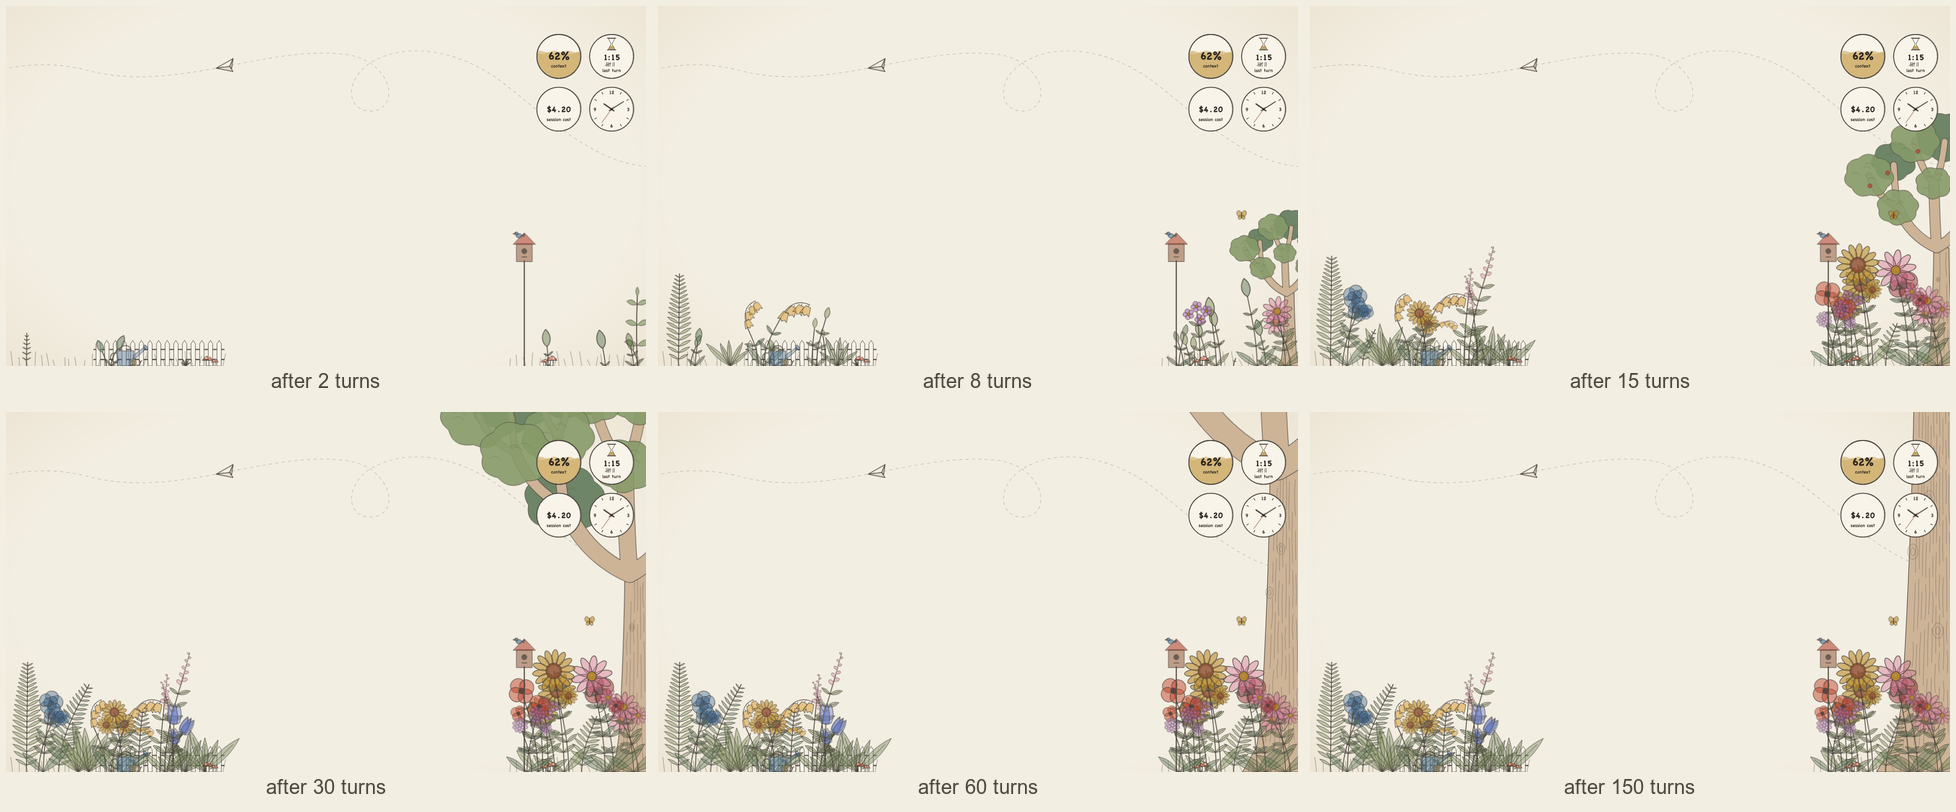
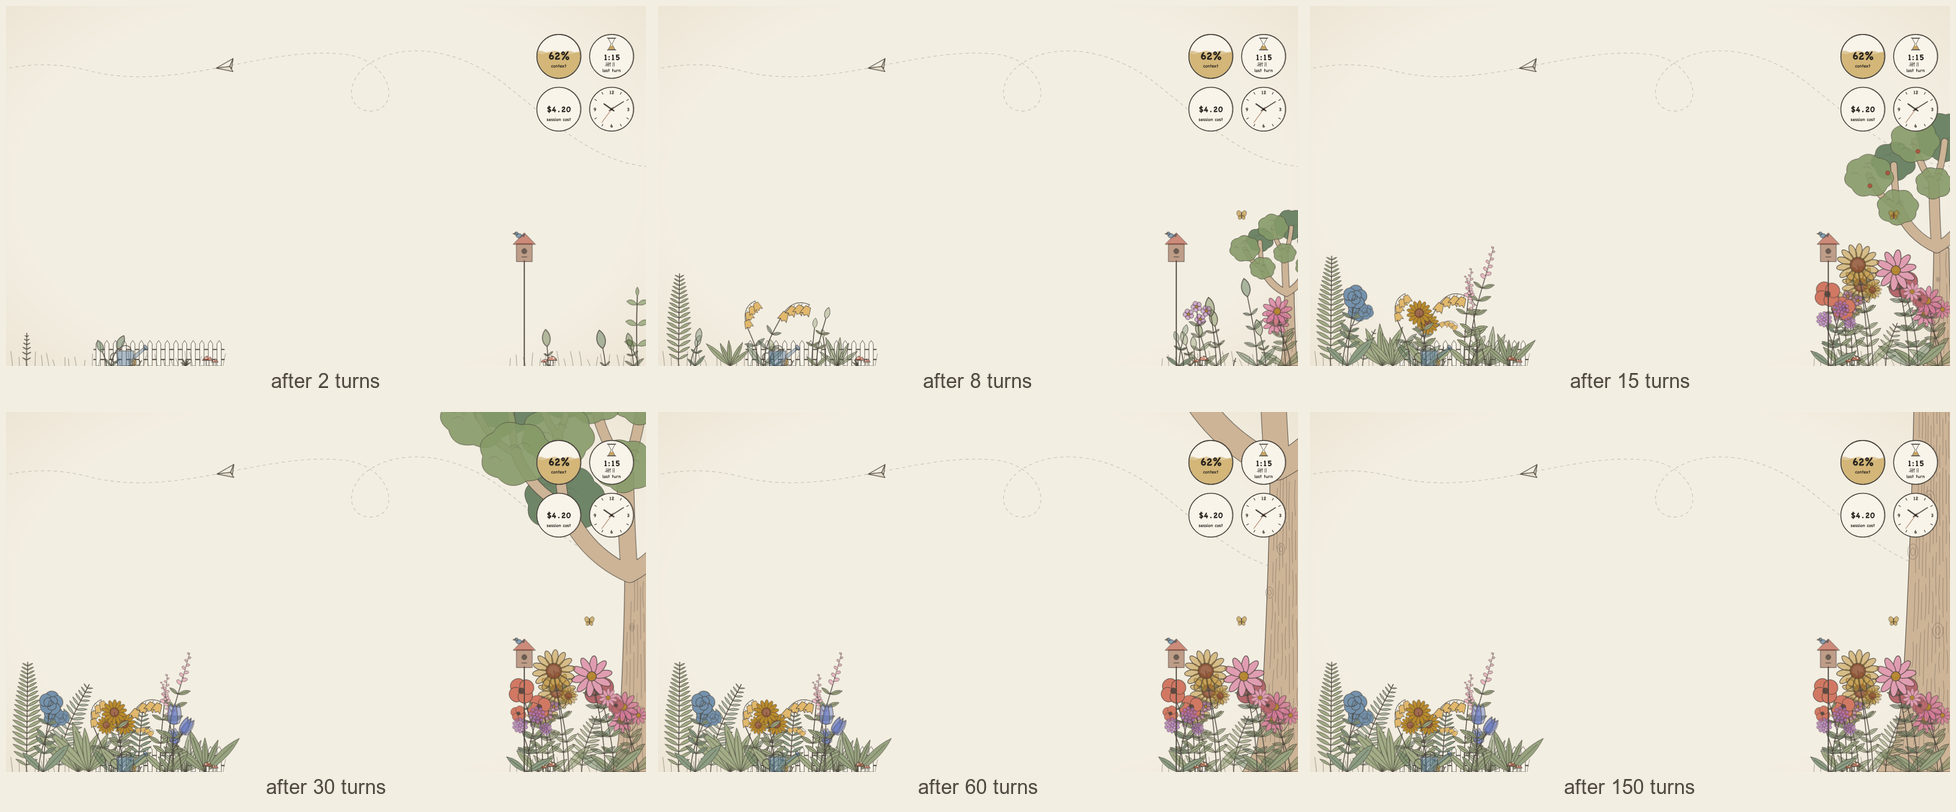
Most flowers and leaves are painted solid, a few stay see-through

diff --git a/hooks/scene/garden.ts b/hooks/scene/garden.ts
@@ -31,6 +31,12 @@ function chance(seed: number, index: number, choice: number): number {
   return hashUnit(seed * 97 + index, choice)
 }
 
+/** A colour mixed part of the way toward the paper's cream. */
+function tint(hex: string, share: number): string {
+  const mix = (at: number, paper: number) => Math.round(parseInt(hex.slice(at, at + 2), 16) * (1 - share) + paper * share)
+  return `rgb(${mix(1, 243)},${mix(3, 238)},${mix(5, 226)})`
+}
+
 function pick<T>(list: readonly T[], share: number, fallback: T): T {
   return list[Math.floor(share * list.length)] ?? fallback
 }
@@ -40,6 +46,7 @@ type Leaf = { x: number; y: number; angle: number; length: number; plump: number
 /**
  * One almond-shaped leaf growing out of (x, y) at `angle` degrees. `plump` is its width as a share of its length.
  * It carries no colour of its own: `foliage` gives a plant's leaves their look once, which keeps the picture small.
+ * Most plants' leaves are solid, like their petals, and the rest are a see-through wash.
  */
 function leaf({ x, y, angle, length, plump, hasRib }: Leaf): string {
   const half = round(length / 2)
@@ -48,38 +55,38 @@ function leaf({ x, y, angle, length, plump, hasRib }: Leaf): string {
   return `<path transform="translate(${round(x)} ${round(y)}) rotate(${round(angle)})" d="M0 0Q${half} ${-belly} ${round(length)} 0Q${half} ${belly} 0 0Z${rib}"/>`
 }
 
-function foliage(green: string, leaves: string): string {
-  return `<g fill="${green}" fill-opacity=".42" stroke="${GRAPHITE}" stroke-width="1.2" stroke-linejoin="round">${leaves}</g>`
+function foliage(plot: Plot, leaves: string): string {
+  return `<g fill="${plot.green}" fill-opacity="${plot.leafBody}" stroke="${GRAPHITE}" stroke-width="1.2" stroke-linejoin="round">${leaves}</g>`
 }
 
-function daisy(wash: string): string {
+function daisy(wash: string, body: number): string {
   let petals = ''
   for (let petal = 0; petal < 10; petal += 1) petals += `<ellipse cx="12" cy="0" rx="10" ry="4" transform="rotate(${petal * 36})"/>`
-  return `<g fill="${wash}" fill-opacity=".45" stroke="${GRAPHITE}" stroke-width=".7">${petals}<circle r="5" fill="${OCHRE}" fill-opacity=".9"/></g>`
+  return `<g fill="${wash}" fill-opacity="${body}" stroke="${GRAPHITE}" stroke-width=".7">${petals}<circle r="5" fill="${OCHRE}" fill-opacity=".9"/></g>`
 }
 
 /** A tulip: a tall cup of two outer petals with a third folded in front of them. */
-function tulip(wash: string): string {
+function tulip(wash: string, body: number): string {
   return (
     `<g fill="${wash}" stroke="${GRAPHITE}" stroke-width=".8" stroke-linejoin="round">` +
-    `<path d="M-9 2C-14 -8 -12 -22 -7 -31C-3 -25 -1 -21 0 -18C1 -21 3 -25 7 -31C12 -22 14 -8 9 2Q0 7 -9 2Z" fill-opacity=".45"/>` +
-    `<path d="M-5.5 3C-7 -9 -4 -24 0 -32C4 -24 7 -9 5.5 3Q0 6 -5.5 3Z" fill-opacity=".6"/></g>`
+    `<path d="M-9 2C-14 -8 -12 -22 -7 -31C-3 -25 -1 -21 0 -18C1 -21 3 -25 7 -31C12 -22 14 -8 9 2Q0 7 -9 2Z" fill-opacity="${body}"/>` +
+    `<path d="M-5.5 3C-7 -9 -4 -24 0 -32C4 -24 7 -9 5.5 3Q0 6 -5.5 3Z" fill-opacity="${Math.min(1, body + 0.15)}"/></g>`
   )
 }
 
 /** A rose: a ring of round outer petals, a tighter ring inside it, and a curl of petals at the heart. */
-function rose(wash: string): string {
+function rose(wash: string, body: number): string {
   let outer = ''
   for (let petal = 0; petal < 5; petal += 1) outer += `<ellipse cx="0" cy="-9.5" rx="9.5" ry="8" transform="rotate(${petal * 72})"/>`
   let inner = ''
   for (let petal = 0; petal < 3; petal += 1) inner += `<ellipse cx="0" cy="-5" rx="6.5" ry="5.5" transform="rotate(${petal * 120 + 36})"/>`
   return (
-    `<g transform="translate(0 -6)" fill="${wash}" stroke="${GRAPHITE}" stroke-width=".7"><g fill-opacity=".4">${outer}</g><g fill-opacity=".5">${inner}</g>` +
+    `<g transform="translate(0 -6)" fill="${wash}" stroke="${GRAPHITE}" stroke-width=".7"><g fill-opacity="${body}">${outer}</g><g fill-opacity="${Math.min(1, body + 0.1)}">${inner}</g>` +
     `<path d="M-3.5 0a3.5 3.5 0 1 1 3.5 3.5a2 2 0 1 1 -2 -2" fill="none" stroke-linecap="round"/></g>`
   )
 }
 
-function umbel(wash: string): string {
+function umbel(wash: string, body: number): string {
   let spokes = ''
   let heads = ''
   for (let spoke = 0; spoke < 9; spoke += 1) {
@@ -90,7 +97,7 @@ function umbel(wash: string): string {
     spokes += `M0 0L${x} ${y}`
     heads += `<circle cx="${x}" cy="${y}" r="4.2"/>`
   }
-  return `<path d="${spokes}" fill="none" stroke="${GRAPHITE}" stroke-width=".6"/><g fill="${wash}" fill-opacity=".55" stroke="${GRAPHITE}" stroke-width=".6">${heads}</g>`
+  return `<path d="${spokes}" fill="none" stroke="${GRAPHITE}" stroke-width=".6"/><g fill="${wash}" fill-opacity="${body}" stroke="${GRAPHITE}" stroke-width=".6">${heads}</g>`
 }
 
 function bud(green: string): string {
@@ -98,7 +105,7 @@ function bud(green: string): string {
 }
 
 /** A spike of small florets up the last stretch of the stem, as lavender or a foxglove has. */
-function spike(wash: string): string {
+function spike(wash: string, body: number): string {
   let florets = ''
   for (let step = 0; step < 9; step += 1) {
     const y = round(14 - step * 6.5)
@@ -106,37 +113,37 @@ function spike(wash: string): string {
     const x = round((step % 2 === 0 ? -1 : 1) * size * 0.8)
     florets += `<ellipse cx="${x}" cy="${y}" rx="${size}" ry="${round(size * 0.62)}" transform="rotate(${x < 0 ? 28 : -28} ${x} ${y})"/>`
   }
-  return `<path d="M0 16V-40" fill="none" stroke="${GRAPHITE}" stroke-width=".7"/><g fill="${wash}" fill-opacity=".55" stroke="${GRAPHITE}" stroke-width=".6">${florets}</g>`
+  return `<path d="M0 16V-40" fill="none" stroke="${GRAPHITE}" stroke-width=".7"/><g fill="${wash}" fill-opacity="${body}" stroke="${GRAPHITE}" stroke-width=".6">${florets}</g>`
 }
 
 /** Bells hanging from a stalk that arches over, as a bluebell's do. */
-function bells(wash: string): string {
+function bells(wash: string, body: number): string {
   const hung = [[3, -14], [9, -25], [17, -31], [26, -34]]
     .map(([x, y]) => `<path transform="translate(${x} ${y})" d="M0 0V3M-3.5 3C-5 8 -6 12 -6.5 15L-3 13L0 16L3 13L6.5 15C6 12 5 8 3.5 3Z"/>`)
     .join('')
-  return `<path d="M0 0C0 -22 10 -34 27 -34" fill="none" stroke="${GRAPHITE}" stroke-width=".8"/><g fill="${wash}" fill-opacity=".55" stroke="${GRAPHITE}" stroke-width=".6" stroke-linejoin="round">${hung}</g>`
+  return `<path d="M0 0C0 -22 10 -34 27 -34" fill="none" stroke="${GRAPHITE}" stroke-width=".8"/><g fill="${wash}" fill-opacity="${body}" stroke="${GRAPHITE}" stroke-width=".6" stroke-linejoin="round">${hung}</g>`
 }
 
 /** A globe of tiny flowers on a bare stem, as an allium has. */
-function globe(wash: string): string {
+function globe(wash: string, body: number): string {
   let dots = '<circle cx="0" cy="-13" r="3"/>'
   for (let dot = 0; dot < 16; dot += 1) {
     const ring = dot < 10 ? 11.5 : 5.8
     const angle = (dot / (dot < 10 ? 10 : 6)) * Math.PI * 2
     dots += `<circle cx="${round(Math.cos(angle) * ring)}" cy="${round(-13 + Math.sin(angle) * ring)}" r="3"/>`
   }
-  return `<g fill="${wash}" fill-opacity=".5" stroke="${GRAPHITE}" stroke-width=".5">${dots}</g>`
+  return `<g fill="${wash}" fill-opacity="${body}" stroke="${GRAPHITE}" stroke-width=".5">${dots}</g>`
 }
 
 /** A poppy: four broad petals round a dark middle. */
-function poppy(wash: string): string {
+function poppy(wash: string, body: number): string {
   let petals = ''
   for (let petal = 0; petal < 4; petal += 1) petals += `<ellipse cx="0" cy="-9" rx="10.5" ry="9.5" transform="rotate(${petal * 90 + 20})"/>`
-  return `<g fill="${wash}" fill-opacity=".5" stroke="${GRAPHITE}" stroke-width=".7">${petals}<circle r="4" fill="${GRAPHITE}" fill-opacity=".8"/></g>`
+  return `<g fill="${wash}" fill-opacity="${body}" stroke="${GRAPHITE}" stroke-width=".7">${petals}<circle r="4" fill="${GRAPHITE}" fill-opacity=".8"/></g>`
 }
 
 /** A cluster of small five-petalled flowers, as forget-me-nots grow. */
-function starCluster(wash: string): string {
+function starCluster(wash: string, body: number): string {
   let cluster = ''
   for (const [x, y] of [[0, -6], [-11, 0], [10, 2], [-3, 9]]) {
     let petals = ''
@@ -146,20 +153,20 @@ function starCluster(wash: string): string {
     }
     cluster += `${petals}<circle cx="${x}" cy="${y}" r="1.6" fill="${OCHRE}" fill-opacity="1"/>`
   }
-  return `<g fill="${wash}" fill-opacity=".6" stroke="${GRAPHITE}" stroke-width=".5">${cluster}</g>`
+  return `<g fill="${wash}" fill-opacity="${body}" stroke="${GRAPHITE}" stroke-width=".5">${cluster}</g>`
 }
 
 /** A sunflower: a wide brown middle and a ring of long yellow petals, whatever colour its neighbours are. */
-function sunflower(): string {
+function sunflower(_wash: string, body: number): string {
   let petals = ''
   for (let petal = 0; petal < 14; petal += 1) petals += `<ellipse cx="14" cy="0" rx="8" ry="3.3" transform="rotate(${round(petal * (360 / 14))})"/>`
-  return `<g fill="${OCHRE}" fill-opacity=".6" stroke="${GRAPHITE}" stroke-width=".6">${petals}<circle r="8" fill="#8a4b2d" fill-opacity=".8"/></g>`
+  return `<g fill="${OCHRE}" fill-opacity="${body}" stroke="${GRAPHITE}" stroke-width=".6">${petals}<circle r="8" fill="#8a4b2d" fill-opacity=".8"/></g>`
 }
 
-const BLOOMS: readonly ((wash: string) => string)[] = [daisy, tulip, rose, umbel, spike, tulip, bells, globe, rose, poppy, starCluster, sunflower]
+const BLOOMS: readonly ((wash: string, body: number) => string)[] = [daisy, tulip, rose, umbel, spike, tulip, bells, globe, rose, poppy, starCluster, sunflower]
 
 /** One plant's place: `grown` is how far along it is (0 to 1), and `size` is that made smaller toward the chat. */
-type Plot = { seed: number; index: number; rootX: number; grown: number; size: number; green: string }
+type Plot = { seed: number; index: number; rootX: number; grown: number; size: number; green: string; leafBody: number }
 
 function swaying(plot: Plot, body: string): string {
   return `<g class="sway" style="transform-origin:${round(plot.rootX)}px ${GROUND}px;animation-duration:${7 + Math.floor(chance(plot.seed, plot.index, 8) * 5)}s">${body}</g>`
@@ -199,7 +206,7 @@ function stalk(plot: Plot, order: number, bloom: string): string {
   const scale = (1.5 + chance(seed, index, 9) * 1.2) * (1 - order * 0.12)
   const head = `<g transform="translate(${round(tip.x)} ${round(tip.y)}) rotate(${round(tip.facing - 90)}) scale(${round(scale)})">${plot.grown >= 0.8 ? bloom : bud(green)}</g>`
   const shoot = order === 0 && plot.grown >= 0.95 ? sideShoot(plot, curve, bloom) : ''
-  return drawn + foliage(green, leaves) + shoot + head
+  return drawn + foliage(plot, leaves) + shoot + head
 }
 
 /**
@@ -208,7 +215,12 @@ function stalk(plot: Plot, order: number, bloom: string): string {
  */
 function flower(plot: Plot): string {
   const { seed, index, rootX, size, green } = plot
-  const bloom = pick(BLOOMS, chance(seed, index, 7), daisy)(pick(WASHES, chance(seed, index, 6), OCHRE))
+  // Most plants' petals are painted solid, so they lie over one another; a few are half solid and a few are a thin
+  // wash you can see through. Solid ones are mixed toward the paper so they stay soft.
+  const sheer = chance(seed, index, 20)
+  const body = sheer < 0.2 ? 0.5 : sheer < 0.4 ? 0.75 : 1
+  const colour = pick(WASHES, chance(seed, index, 6), OCHRE)
+  const bloom = pick(BLOOMS, chance(seed, index, 7), daisy)(body === 1 ? tint(colour, 0.3) : colour, body)
   const share = chance(seed, index, 19)
   const stems = share < 0.45 ? 1 : share < 0.8 ? 2 : 3
 
@@ -218,7 +230,7 @@ function flower(plot: Plot): string {
   }
   let stalks = ''
   for (let order = stems - 1; order >= 0; order -= 1) stalks += stalk(plot, order, bloom)
-  return swaying(plot, foliage(green, basal) + stalks)
+  return swaying(plot, foliage(plot, basal) + stalks)
 }
 
 /** A short shoot off the middle of a full-grown flower's stem, with a smaller bloom of its own. */
@@ -250,7 +262,7 @@ function fern(plot: Plot): string {
       leaflets += leaf({ x: spot.x, y: spot.y, angle: spot.facing - 180 + side * 62, length, plump: 0.2, hasRib: false })
     }
   }
-  return swaying(plot, drawn + foliage(green, leaflets))
+  return swaying(plot, drawn + foliage(plot, leaflets))
 }
 
 /** A clump of broad leaves fanning out from the ground. */
@@ -262,7 +274,7 @@ function clump(plot: Plot): string {
     const spread = -90 + (blade - (count - 1) / 2) * 24 + (chance(seed, index * 31 + blade, 3) - 0.5) * 12
     leaves += leaf({ x: rootX, y: GROUND, angle: spread, length: (110 + chance(seed, index * 31 + blade, 4) * 80) * size, plump: 0.17, hasRib: true })
   }
-  return swaying(plot, foliage(green, leaves))
+  return swaying(plot, foliage(plot, leaves))
 }
 
 function grass(seed: number, width: number): string {
@@ -289,6 +301,8 @@ export function garden(seed: number, turns: number, bed: Bed, fewer = 0): string
     const sproutedAt = rank < 2 ? 0 : (rank - 1) * 1.3
     if (turns < sproutedAt || rank >= bed.plants - fewer) continue
     const grown = Math.min(1, 0.12 + (turns - sproutedAt) * 0.09)
+    const green = pick(GREENS, chance(seed, index, 16), '#6f8355')
+    const hasSolidLeaves = chance(seed, index, 21) >= 0.35
     const plot: Plot = {
       seed,
       index,
@@ -296,7 +310,8 @@ export function garden(seed: number, turns: number, bed: Bed, fewer = 0): string
       rootX: 22 + (index + chance(seed, index, 1) * 0.9) * ((bed.width - 50) / bed.plants),
       grown,
       size: grown * (1 - (index / bed.plants) * 0.3),
-      green: pick(GREENS, chance(seed, index, 16), '#6f8355'),
+      green: hasSolidLeaves ? tint(green, 0.3) : green,
+      leafBody: hasSolidLeaves ? 1 : 0.45,
     }
     const kind = chance(seed, index, 17)
     if (kind < bed.flowerShare || index % 4 === 1) flowers += flower(plot)
